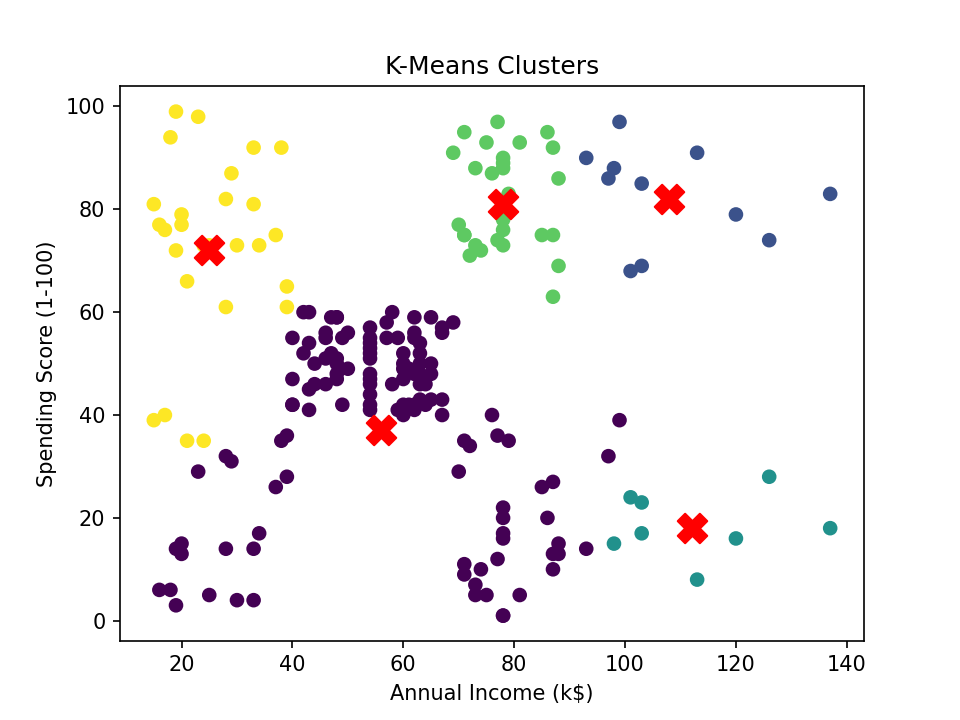
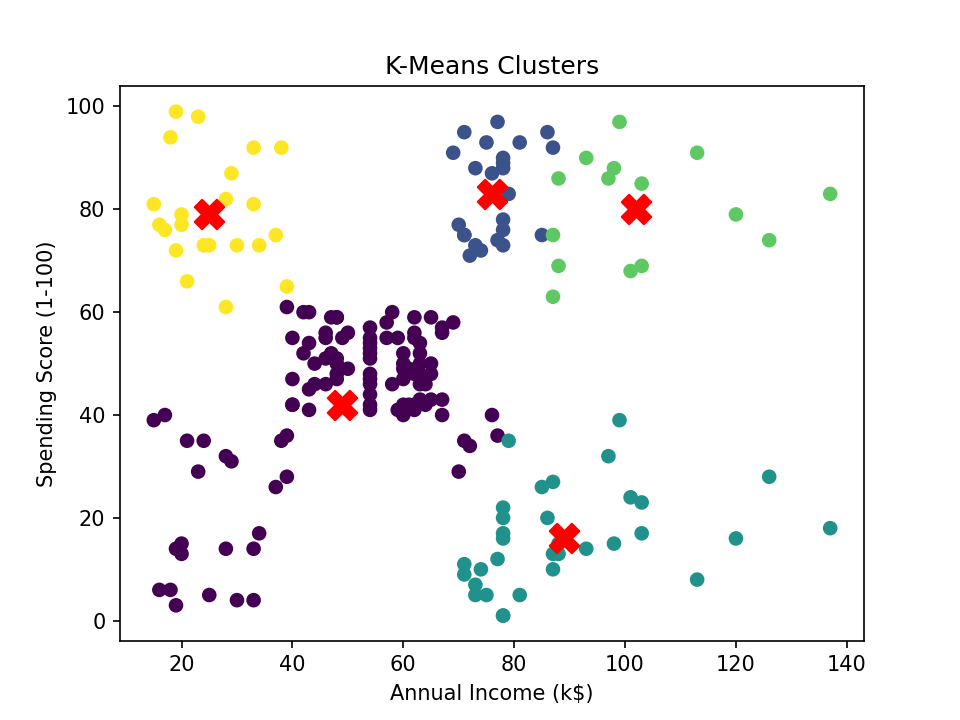
feat: implement KMeans++ initialization

diff --git a/src/kmeans.py b/src/kmeans.py
@@ -10,8 +10,7 @@ class Kmeans:
         n_samples = X.shape[0]
     
         # escolhe k pontos aleatorios do dataset como centroides iniciais
-        random_idx = np.random.choice(n_samples, self.k, replace=False)
-        self.centroids = X[random_idx]
+        self.centroids = self._init_centroids_plusplus(X)
 
         for _ in range(self.max_iters):
             # atribuição: para cada ponto, encontra o centroide mais próximo
@@ -41,3 +40,14 @@ class Kmeans:
             distances = np.linalg.norm(X[i] - self.centroids, axis=1)
             clusters[i] = np.argmin(distances)
         return clusters
+    
+    def _init_centroids_plusplus(self, X):
+        random_idx = np.random.randint(0, X.shape[0])
+        centroids = [X[random_idx]]
+
+        for i in range(1, self.k):
+            distances = np.min([np.linalg.norm(X - centroid, axis=1) for centroid in centroids], axis=0)
+            probabilities = distances / distances.sum()
+            new_idx = np.random.choice(len(X), p=probabilities)
+            centroids.append(X[new_idx])
+        return np.array(centroids)
